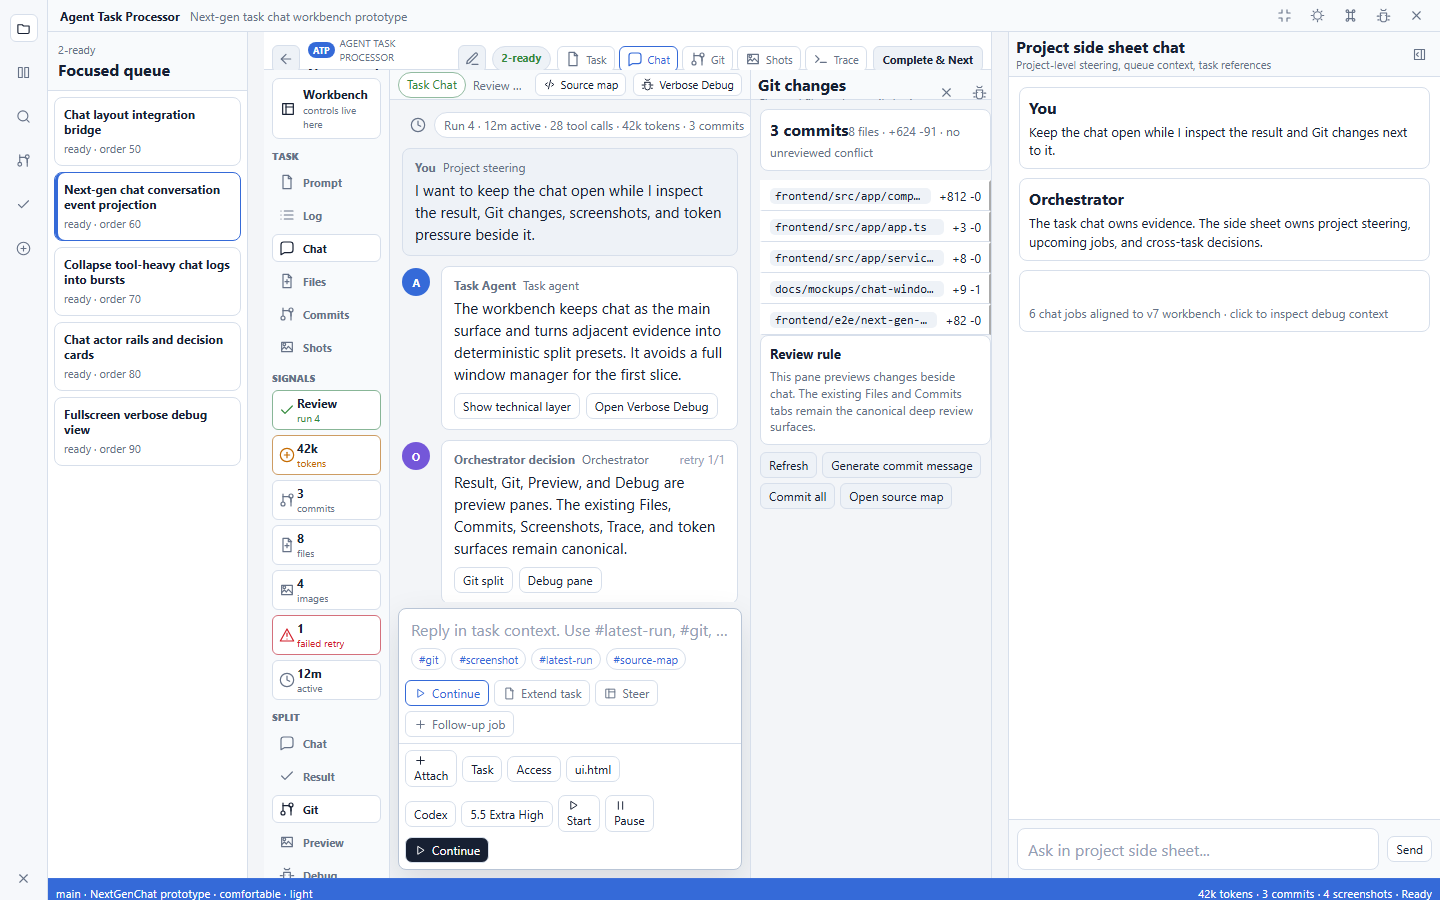
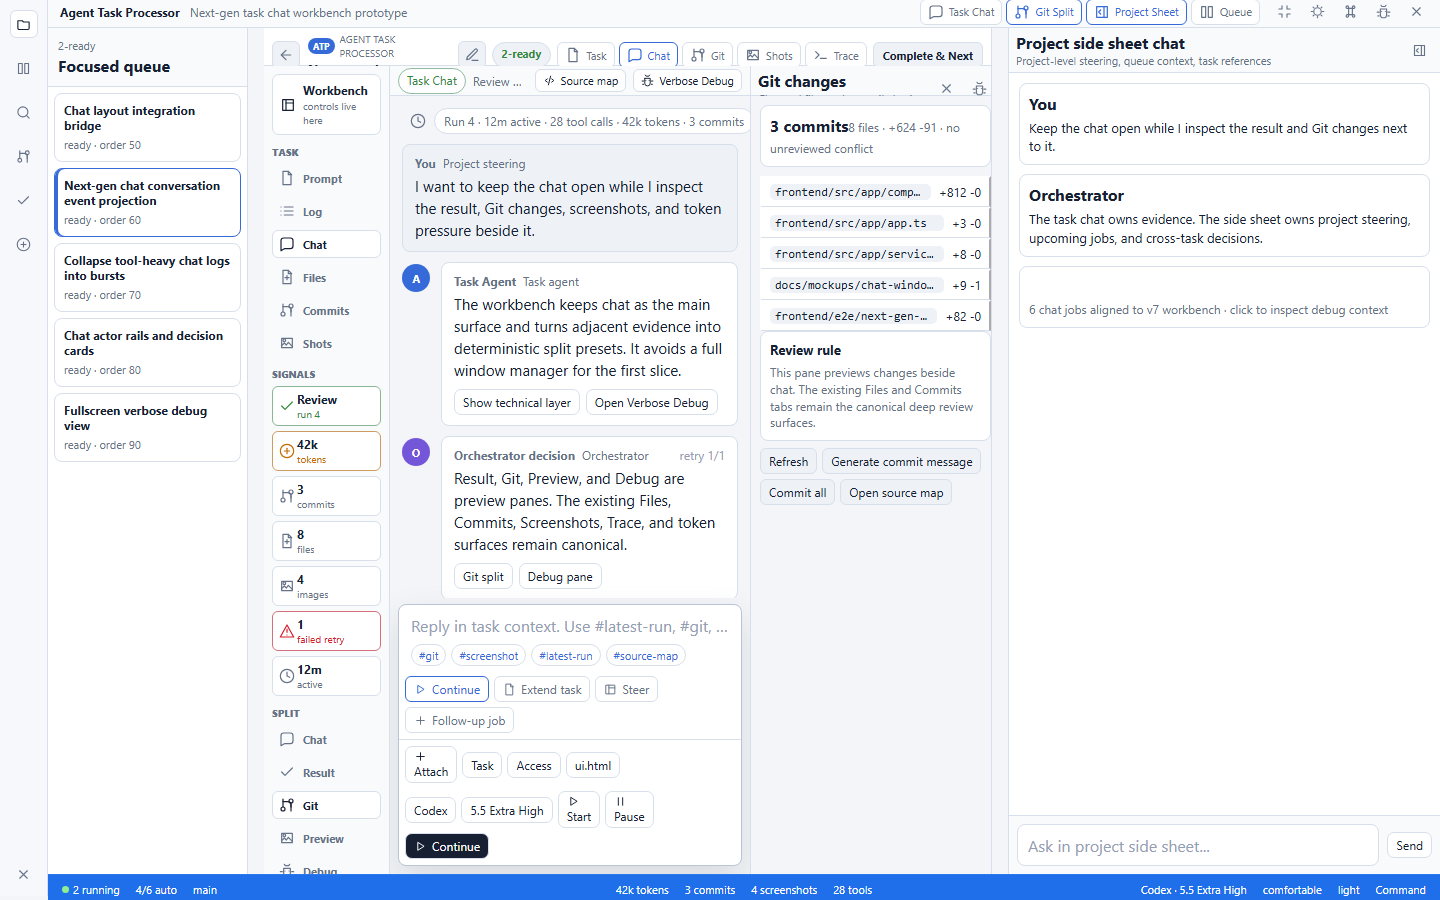
refactor: consolidate detail-chrome pane styles and naming
- Rename topbar nav classes to detail-chrome convention for consistency
- Move status-popover and shot styles inline for scoped layout control
- Remove unused CSS rules and simplify grid helper styles

Changed region(s): [[0.0312, 0.0, 1.0, 1.0], [0.7188, 0.3422, 0.9688, 0.3733]]

diff --git a/frontend/src/app/components/mockups/next-gen-chat-workbench-prototype.component.ts b/frontend/src/app/components/mockups/next-gen-chat-workbench-prototype.component.ts
@@ -67,8 +67,8 @@ interface ChatTurn {
           <strong>Agent Task Processor</strong>
           <span>Next-gen task chat workbench prototype</span>
         </div>
-        <nav class="topbar__nav" aria-label="Workbench quick navigation" data-testid="prototype-topbar-nav">
-          <button [class.topbar__nav-active]="pane() === 'result'"
+        <nav class="topbar__nav detail-chrome__panes" aria-label="Workbench quick navigation" data-testid="prototype-topbar-nav">
+          <button [class.detail-chrome__pane--active]="pane() === 'result'"
                   (click)="setPane('result')"
                   data-testid="prototype-topbar-chat">
             <svg class="svg-icon" viewBox="0 0 24 24" aria-hidden="true">
@@ -78,7 +78,7 @@ interface ChatTurn {
             </svg>
             <span>Task Chat</span>
           </button>
-          <button [class.topbar__nav-active]="pane() === 'git'"
+          <button [class.detail-chrome__pane--active]="pane() === 'git'"
                   (click)="setPane('git')"
                   data-testid="prototype-topbar-git">
             <svg class="svg-icon" viewBox="0 0 24 24" aria-hidden="true">
@@ -88,7 +88,7 @@ interface ChatTurn {
             </svg>
             <span>Git Split</span>
           </button>
-          <button [class.topbar__nav-active]="sideSheetOpen()"
+          <button [class.detail-chrome__pane--active]="sideSheetOpen()"
                   (click)="sideSheetOpen.set(!sideSheetOpen())"
                   data-testid="prototype-topbar-sheet">
             <svg class="svg-icon" viewBox="0 0 24 24" aria-hidden="true">
@@ -98,7 +98,7 @@ interface ChatTurn {
             </svg>
             <span>Project Sheet</span>
           </button>
-          <button [class.topbar__nav-active]="statusPanel() === 'queue'"
+          <button [class.detail-chrome__pane--active]="statusPanel() === 'queue'"
                   (click)="toggleStatusPanel('queue')"
                   data-testid="prototype-topbar-queue">
             <svg class="svg-icon" viewBox="0 0 24 24" aria-hidden="true">
@@ -626,9 +626,10 @@ interface ChatTurn {
 
       @if (statusPanel()) {
         <section class="status-popover modal__panel"
+                 style="position:fixed;left:58px;right:10px;bottom:26px;z-index:19;width:auto;max-height:280px;display:grid;grid-template-columns:220px minmax(0,1fr) minmax(180px,.45fr);gap:10px;padding:10px;border-radius:8px 8px 0 0;"
                  [attr.data-panel]="statusPanel()"
                  data-testid="prototype-status-popover">
-          <header>
+          <header style="display:grid;gap:6px;align-content:start;border-right:1px solid var(--line)">
             <strong>{{ statusPanelTitle() }}</strong>
             <button class="chip" (click)="statusPanel.set(null)">Close</button>
           </header>
@@ -705,7 +706,7 @@ interface ChatTurn {
                   <button>Open evidence folder</button>
                 </div>
               </article>
-              <article class="status-shot">
+              <article style="display:grid;place-items:center;text-align:center;color:var(--muted);background:linear-gradient(135deg, rgba(122,167,255,.22), transparent 46%), var(--surface-soft)">
                 <b>Latest</b>
                 <span>Result split, light theme, 1440 x 900</span>
               </article>
@@ -1084,37 +1085,6 @@ interface ChatTurn {
     }
 
     .topbar__title span { color: var(--muted); }
-
-    .topbar__nav {
-      min-width: 0;
-      display: flex;
-      align-items: center;
-      gap: 4px;
-      overflow: hidden;
-    }
-
-    .topbar__nav button {
-      min-width: 0;
-      height: 26px;
-      display: inline-flex;
-      align-items: center;
-      gap: 5px;
-      border: 1px solid transparent;
-      border-radius: 6px;
-      background: transparent;
-      color: var(--muted);
-      padding: 0 7px;
-      font-size: 11px;
-      font-weight: 700;
-      white-space: nowrap;
-    }
-
-    .topbar__nav button:hover,
-    .topbar__nav-active {
-      background: var(--surface) !important;
-      border-color: var(--line) !important;
-      color: var(--text) !important;
-    }
 
     .topbar__actions { display: flex; gap: 5px; }
 
@@ -1931,11 +1901,6 @@ interface ChatTurn {
       text-overflow: ellipsis;
     }
 
-    .function-grid__active {
-      color: var(--accent) !important;
-      border-color: var(--accent) !important;
-    }
-
     .context {
       min-width: 0;
       min-height: 0;
@@ -2136,38 +2101,6 @@ interface ChatTurn {
       background: var(--surface);
     }
 
-    .status-popover {
-      position: fixed;
-      left: 58px;
-      right: 10px;
-      bottom: 26px;
-      z-index: 19;
-      width: auto;
-      max-height: 280px;
-      display: grid;
-      grid-template-columns: 220px minmax(0, 1fr) minmax(180px, 0.45fr);
-      gap: 10px;
-      padding: 10px;
-      border-radius: 8px 8px 0 0;
-    }
-
-    .status-popover header {
-      display: grid;
-      gap: 6px;
-      align-content: start;
-      border-right: 1px solid var(--line);
-    }
-
-    .status-shot {
-      display: grid;
-      place-items: center;
-      text-align: center;
-      color: var(--muted);
-      background:
-        linear-gradient(135deg, rgba(122, 167, 255, 0.22), transparent 46%),
-        var(--surface-soft) !important;
-    }
-
     .statusbar {
       grid-column: 2;
       min-height: 22px;
@@ -2221,7 +2154,6 @@ interface ChatTurn {
       height: 7px;
       border-radius: 999px;
       background: #90ee90;
-      box-shadow: 0 0 0 3px rgba(144, 238, 144, 0.18);
     }
 
     .modal {
@@ -2293,64 +2225,8 @@ interface ChatTurn {
     .debug-grid h3 { margin: 0 0 10px; font-size: 14px; }
     .debug-grid p { color: var(--muted); line-height: 1.45; margin: 0; }
 
-    .guide-grid {
-      display: grid;
-      grid-template-columns: repeat(3, minmax(0, 1fr));
-      gap: 10px;
-      padding: 12px;
-    }
-
-    .guide-grid article {
-      border: 1px solid var(--line);
-      border-radius: 8px;
-      background: var(--surface);
-      padding: 12px;
-    }
-
-    .guide-grid h3 {
-      margin: 0 0 8px;
-      font-size: 14px;
-    }
-
-    .guide-grid p {
-      margin: 0;
-      color: var(--muted);
-      font-size: 13px;
-      line-height: 1.45;
-    }
-
-    .image-box {
-      min-height: 420px;
-      display: grid;
-      place-items: center;
-      text-align: center;
-      background:
-        repeating-linear-gradient(90deg, color-mix(in srgb, var(--line) 50%, transparent) 0 1px, transparent 1px 88px),
-        var(--bg);
-      margin: 14px;
-      border: 1px solid var(--line);
-      border-radius: 8px;
-    }
-
-    .image-box strong,
-    .image-box code { display: block; margin: 4px; }
-
-    .command {
-      width: min(680px, 92vw);
-      padding: 10px;
-      display: grid;
-      gap: 8px;
-    }
-
-    .command input {
-      min-height: 42px;
-      border: 1px solid var(--line);
-      border-radius: 8px;
-      background: var(--surface-soft);
-      color: var(--text);
-      padding: 0 12px;
-      font: inherit;
-    }
+    .guide-grid { display: grid; gap: 10px; padding: 12px; }
+    .image-box { min-height: 420px; display: grid; place-items: center; text-align: center; }
 
     .ng-chat-prototype[data-density="compact"] .workspace {
       grid-template-columns: 184px minmax(590px, 1fr) minmax(260px, 28vw);
@@ -2429,12 +2305,6 @@ interface ChatTurn {
       .topbar__nav span { display: none; }
       .statusbar { grid-template-columns: minmax(0, 1fr) auto; }
       .statusbar__group--center { display: none; }
-      .status-popover {
-        left: 8px;
-        right: 8px;
-        bottom: 24px;
-        grid-template-columns: 1fr;
-      }
       .detail { grid-template-rows: auto minmax(0, 1fr); }
       .detail-chrome {
         min-height: 34px;
